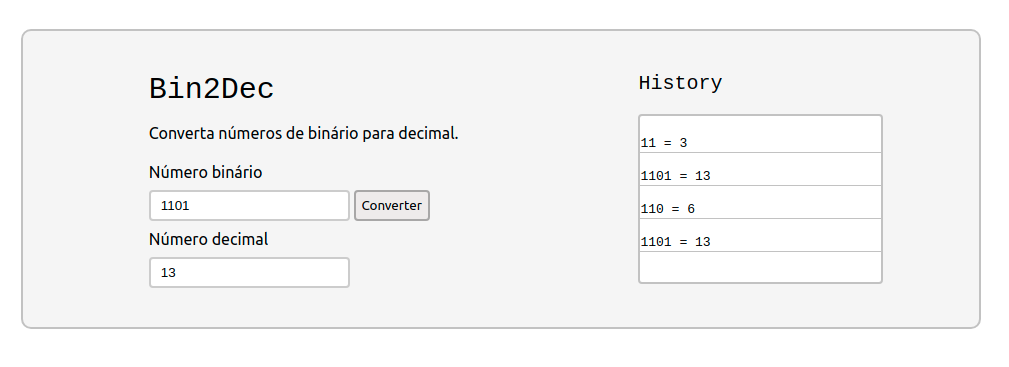
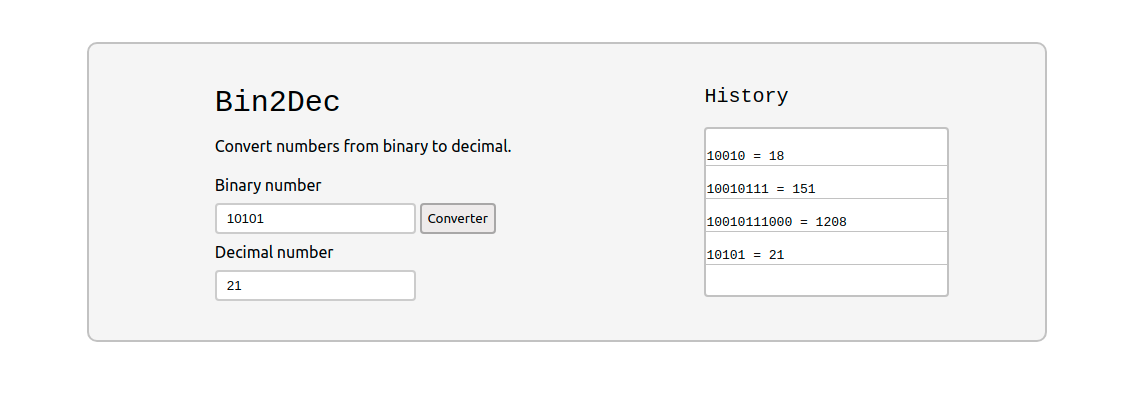
Translate the text to english.

diff --git a/index.html b/index.html
@@ -17,17 +17,17 @@
                     <h1>Bin2Dec</h1>
                 </div>
                 <div class="container-text">
-                    <p>Converta números de binário para decimal.</p>
+                    <p>Convert numbers from binary to decimal.</p>
                 </div>
             </div>
             <div class="container-core">
                 <div class="number-binary">
-                    <label for="binary">Número binário</label><br>
+                    <label for="binary">Binary number</label><br>
                     <input type="text" id="binary" name="binary" class="binary">
                     <button>Converter</button>
                 </div>
                 <div class="number-decimal">
-                    <label for="decimal">Número decimal</label><br>
+                    <label for="decimal">Decimal number</label><br>
                     <input type="text" id="decimal" name="decimal" class="decimal">
                 </div>
             </div>

diff --git a/js/index.js b/js/index.js
@@ -28,7 +28,7 @@ function calculate() {
 
 function printError() {
     let errorBox = document.querySelector("[class=number-binary]")
-    errorBox.innerHTML += `<p class="errorBox" name="errorBox">Este número não é binário</p>`
+    errorBox.innerHTML += `<p class="errorBox" name="errorBox">This number is not binary</p>`
 }
 
 function cleanError() {
